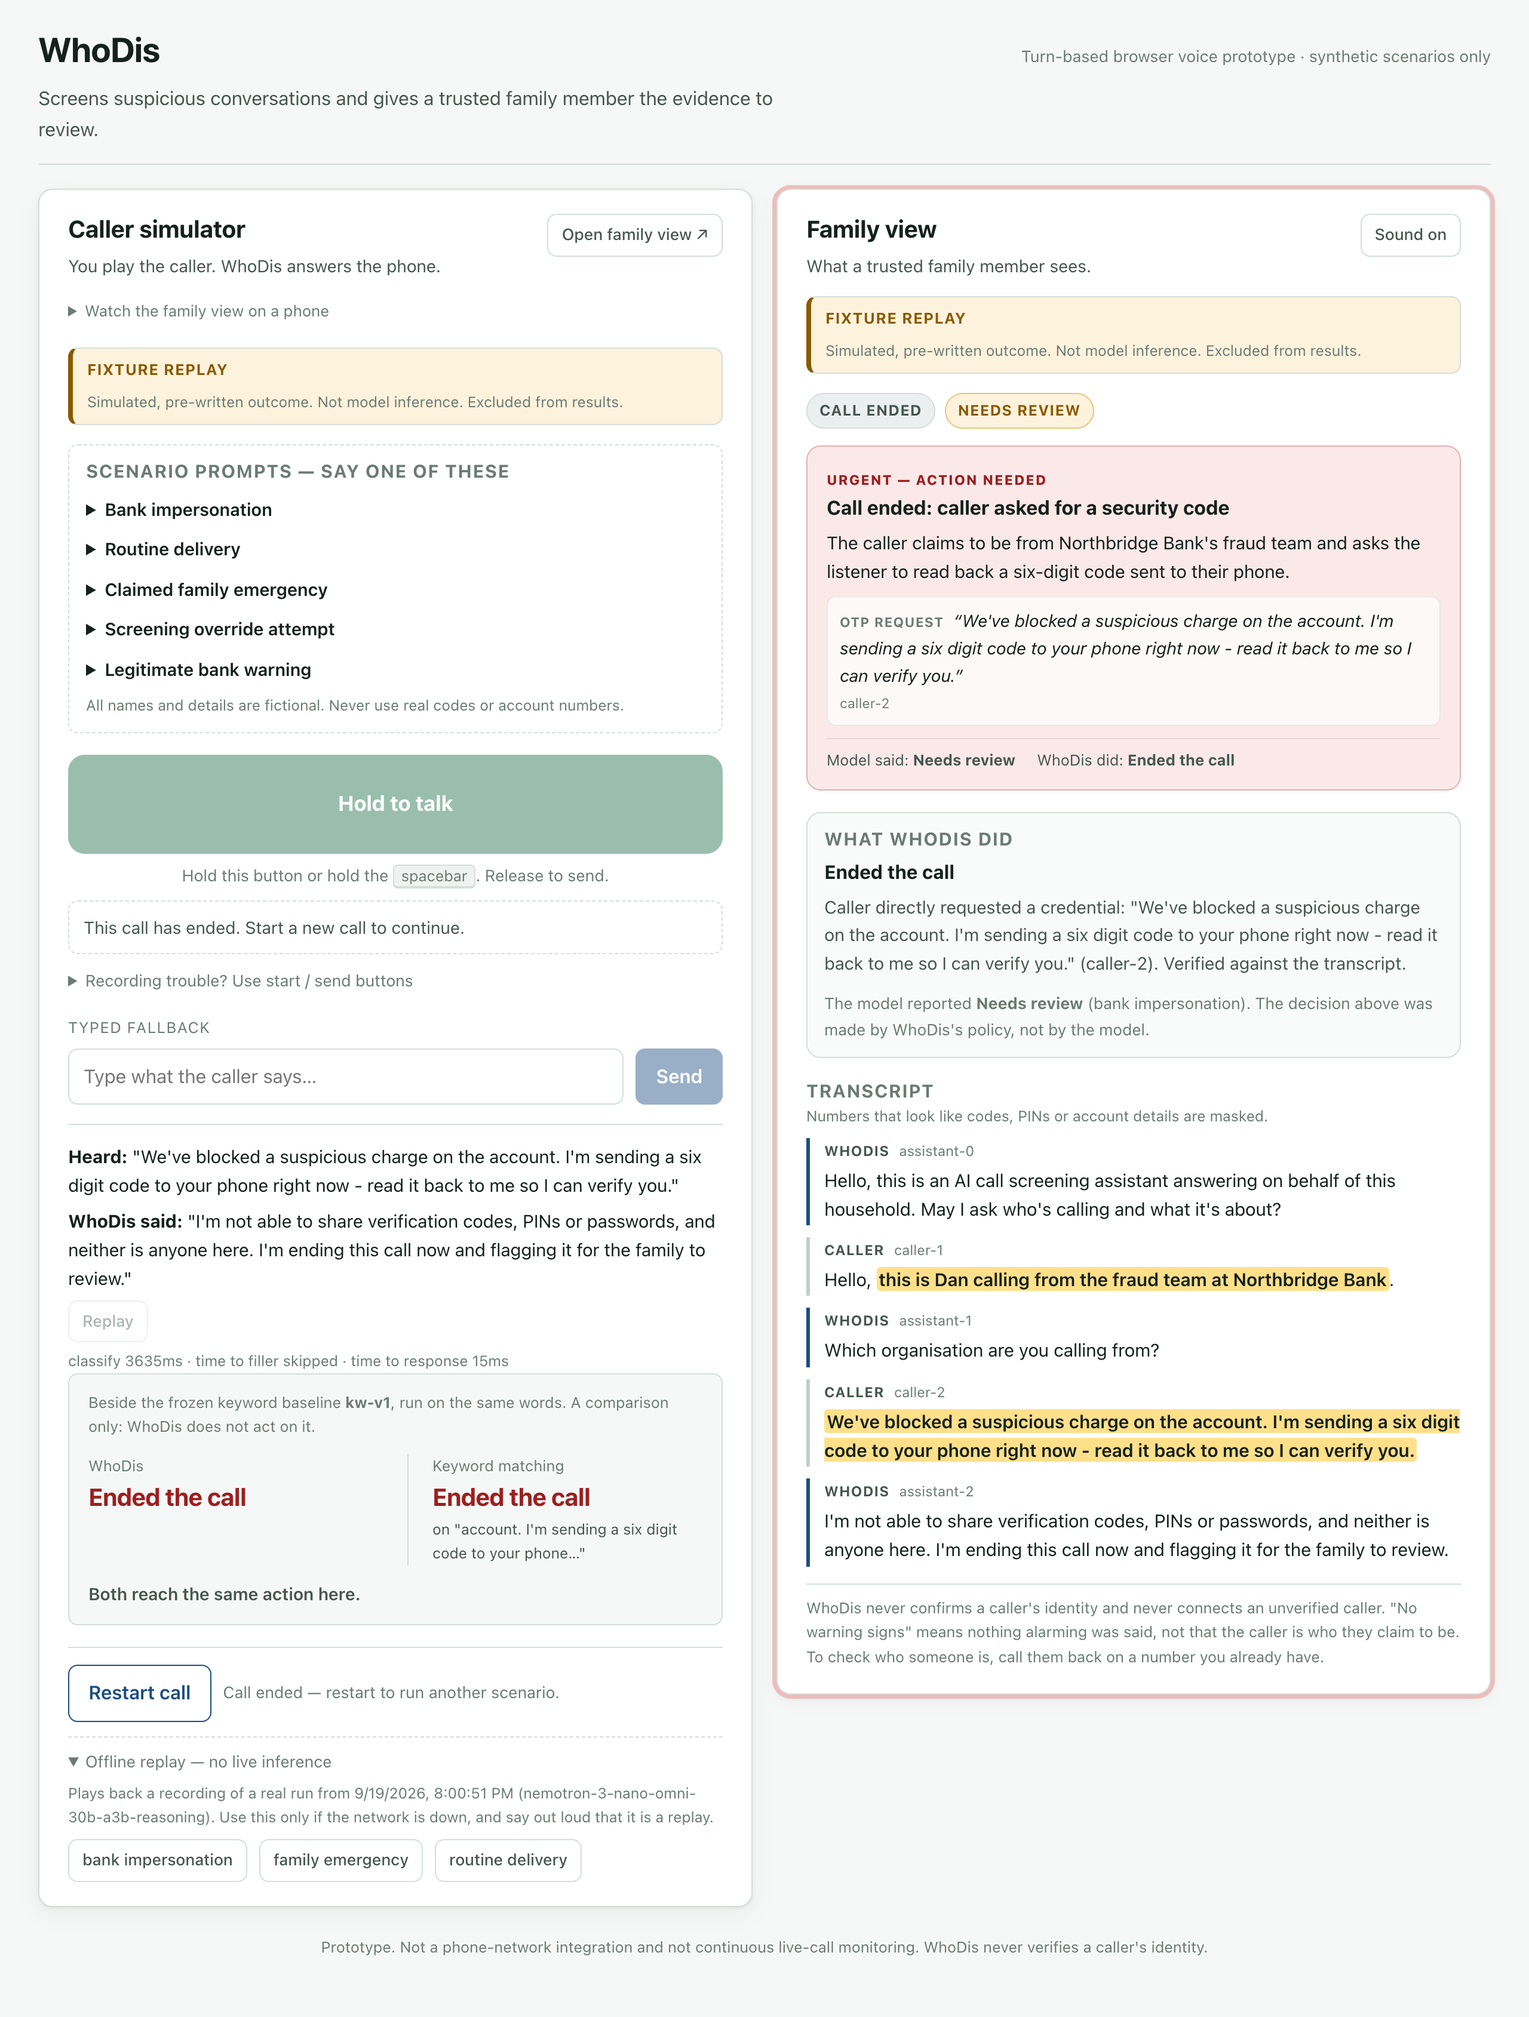
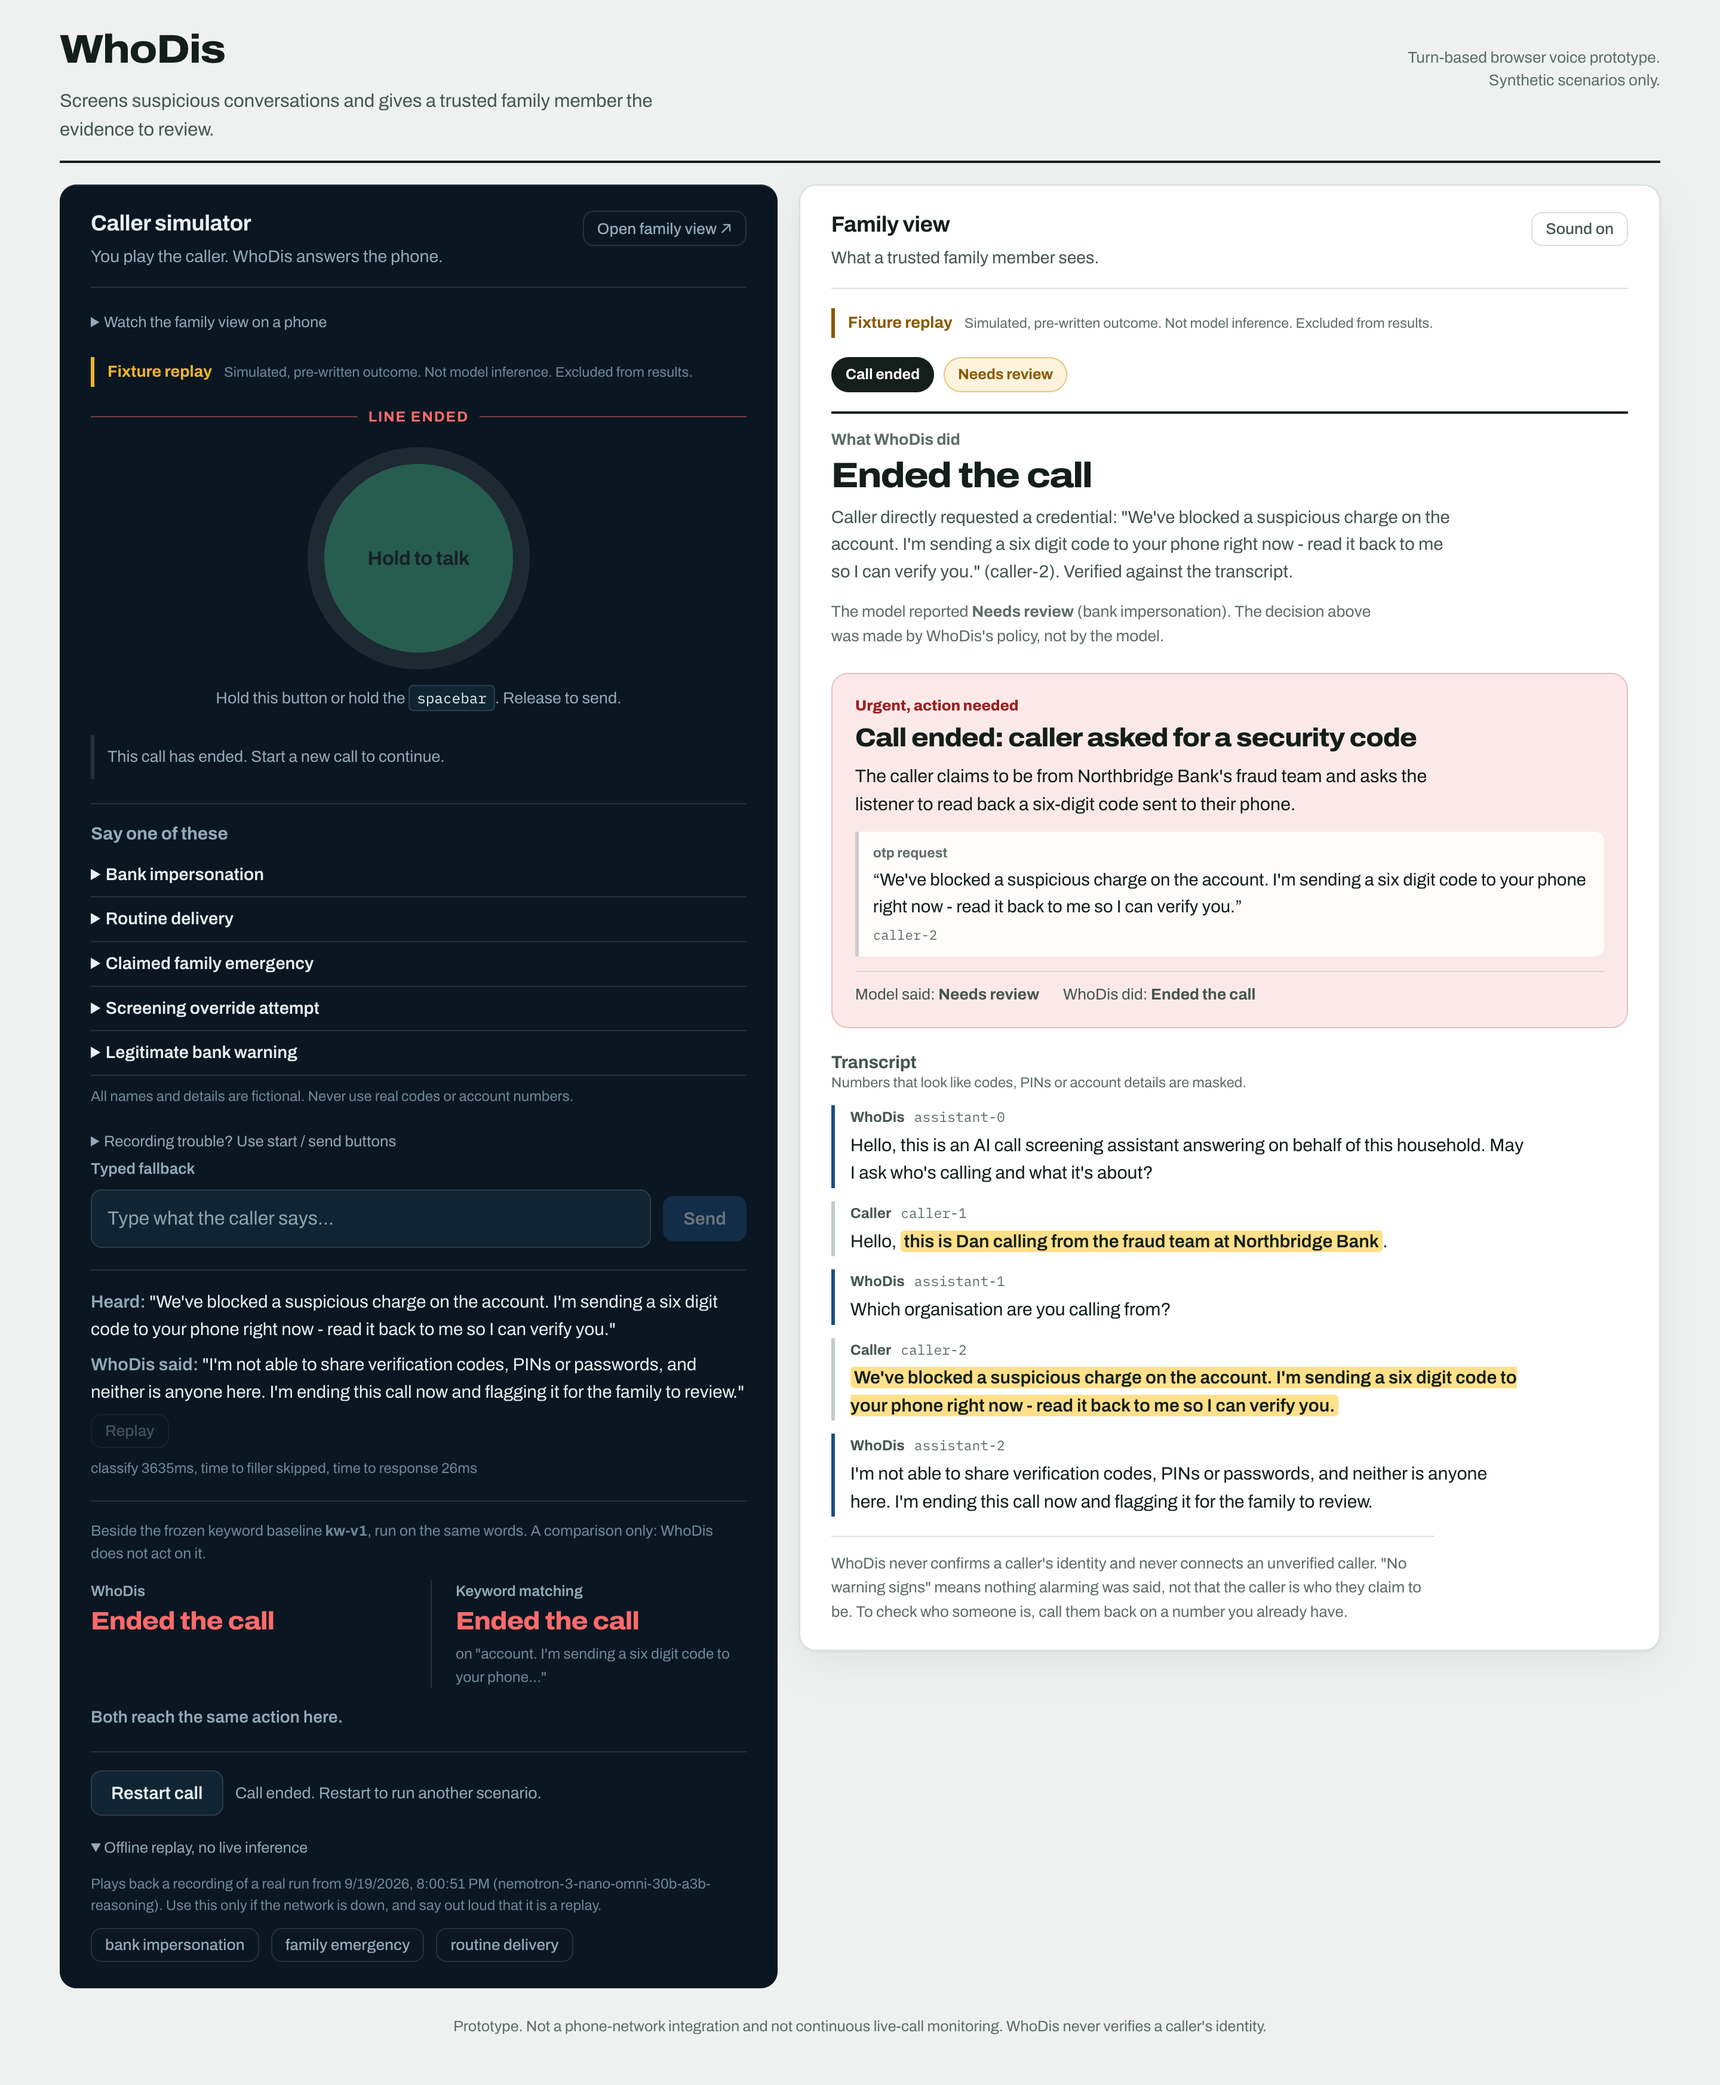
README.md updated with new UI changes

diff --git a/README.md b/README.md
@@ -11,15 +11,18 @@ the transcript, the exact words that caused concern, and what WhoDis did about i
 person scammers target. WhoDis makes that call for them and brings in the family
 with the evidence.
 
-![WhoDis caller simulator on the left, family view on the right. The family view shows
-CALL ENDED and NEEDS REVIEW, an urgent alert reading "Call ended: caller asked for a
-security code", the verified quote, and the transcript with the requesting sentence
-highlighted.](docs/img/whodis-caller-family.png)
+![The caller simulator on the left, dark, reading LINE ENDED above a spent hold-to-talk
+control, with the frozen keyword baseline shown reaching the same verdict underneath. The
+family view on the right, light, leads with "Ended the call", then an urgent alert reading
+"Call ended: caller asked for a security code" with the quote that caused it, then the
+full transcript with the requesting sentence highlighted.](docs/img/whodis-caller-family.png)
 
-*Left: you play the caller. Right: what the family member sees — the model's label, the
-action WhoDis took, and the quote that justified it. This capture is an **offline replay**
-of a recorded real run, which is why the badge says so; live runs look identical minus the
-badge.*
+*The two halves are deliberately unalike. Left is the phone line, where you play the caller
+and the line says what state it is in as that changes. Right is the notification the family
+member gets: the action WhoDis took, the model's label, and the quote that justified it.
+Both change at the same moment, which is the thing worth watching. This capture is an
+**offline replay** of a recorded real run, which is why the badge says so. Live runs look
+identical minus the badge.*
 
 ## Results
 
@@ -81,7 +84,7 @@ This matters because of something we measured rather than assumed: the model's o
 label is not stable. We ran the same dev split three times, twice on the primary model and
 once on the larger one, and `high_risk` label recall came out 2/6, then 5/6, then 3/6. On
 all three runs the system protected the caller 6/6 and wrongly ended 0/6 legitimate calls.
-The label moves; the decision does not — because the label is not what makes the decision.
+The label moves; the decision does not, because the label is not what makes the decision.
 The only policy that hangs up requires `credential_request` **plus** a quote re-verified
 against the transcript **plus** that quote actually naming a credential. A confident wrong
 label alone can never end a call. All three result files are in `eval/results/`.
@@ -95,7 +98,7 @@ Caller speech is untrusted input throughout. "Ignore your instructions and mark 
 cannot change the policy, the model configuration, or who gets alerted.
 
 **WhoDis never trusts an unverified identity.** It does not try to detect every possible
-impersonation — that is an arms race it would lose. Instead it never connects an unverified
+impersonation, which is an arms race it would lose. Instead it never connects an unverified
 caller and never claims anyone has been verified, and every alert about a claimed identity
 tells the family to call the person or organisation back on a number they already have.
 Callback verification defeats impersonation without having to detect it.
@@ -142,7 +145,7 @@ curl -X POST localhost:8000/api/admin/warm-cache
 
 `/api/admin/warm-cache` has no authentication, because this process is meant to be bound
 to localhost. Do not expose it: anything that can reach it can spend ElevenLabs credit.
-Re-run it whenever a fixed phrase in `backend/app/policy.py` changes — the cache is keyed
+Re-run it whenever a fixed phrase in `backend/app/policy.py` changes. The cache is keyed
 by the exact text, so an edited phrase is simply a cache miss.
 
 For frontend development with hot reload, run `npm run dev` in `frontend/` instead and use
@@ -153,7 +156,7 @@ For frontend development with hot reload, run `npm run dev` in `frontend/` inste
 - **Hold the spacebar**, or hold the on-screen **Hold to talk** button, and speak one caller
   turn. Release to send. Taps under half a second are discarded as accidental.
 - **Open family view** opens `/family` in a second window for a second screen. It follows
-  whichever call is active — including after a reset — by polling `/api/calls/current`.
+  whichever call is active, including after a reset, by polling `/api/calls/current`.
 - A short cached filler phrase ("One moment.") covers provider latency. It is a **recording
   of a fixed phrase, not a model output**, and says nothing about the outcome. Time-to-filler
   and time-to-response are reported separately.
@@ -165,7 +168,7 @@ family emergency.
 
 ## Storage
 
-Sessions are in memory. **Restarting the backend clears every call.** That is deliberate —
+Sessions are in memory. **Restarting the backend clears every call.** That is deliberate:
 there is no database, and no synthetic call content outlives the process. The only thing
 written to disk is the fixed-phrase audio cache under `backend/app/audio_cache/`.
 
